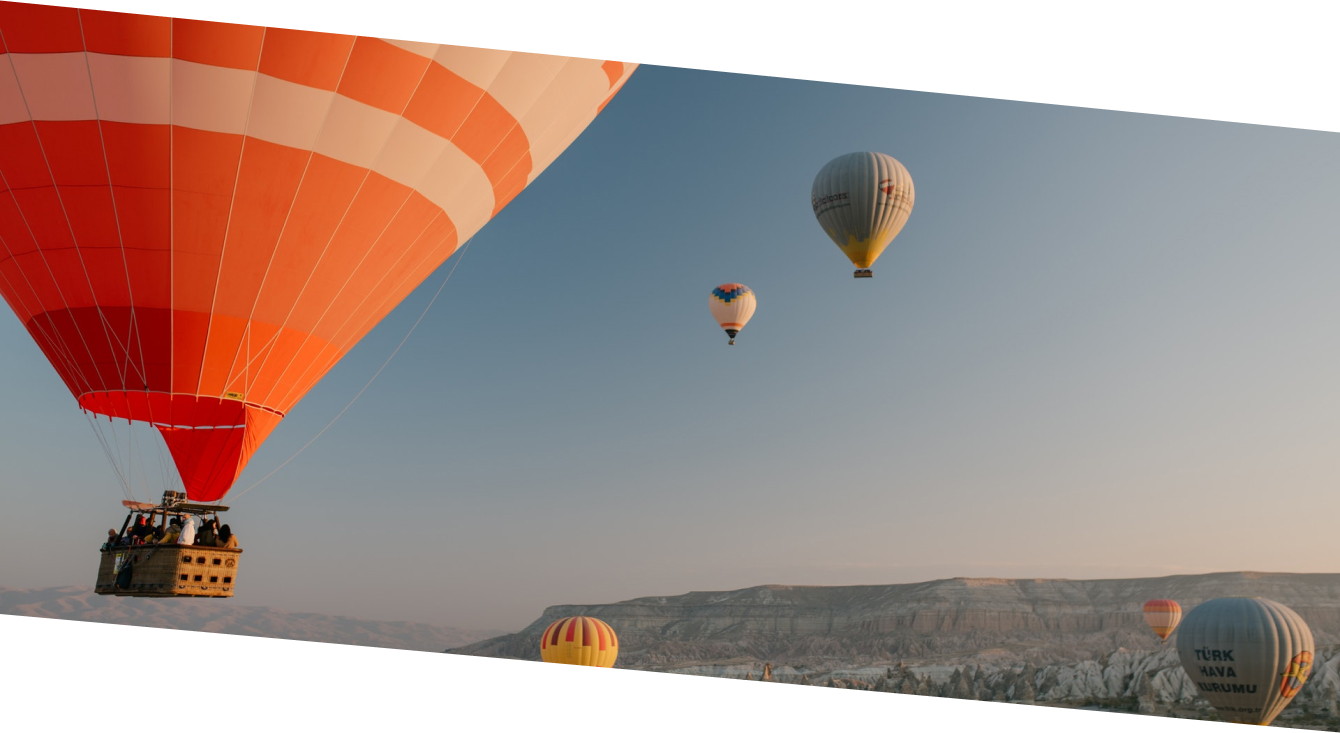
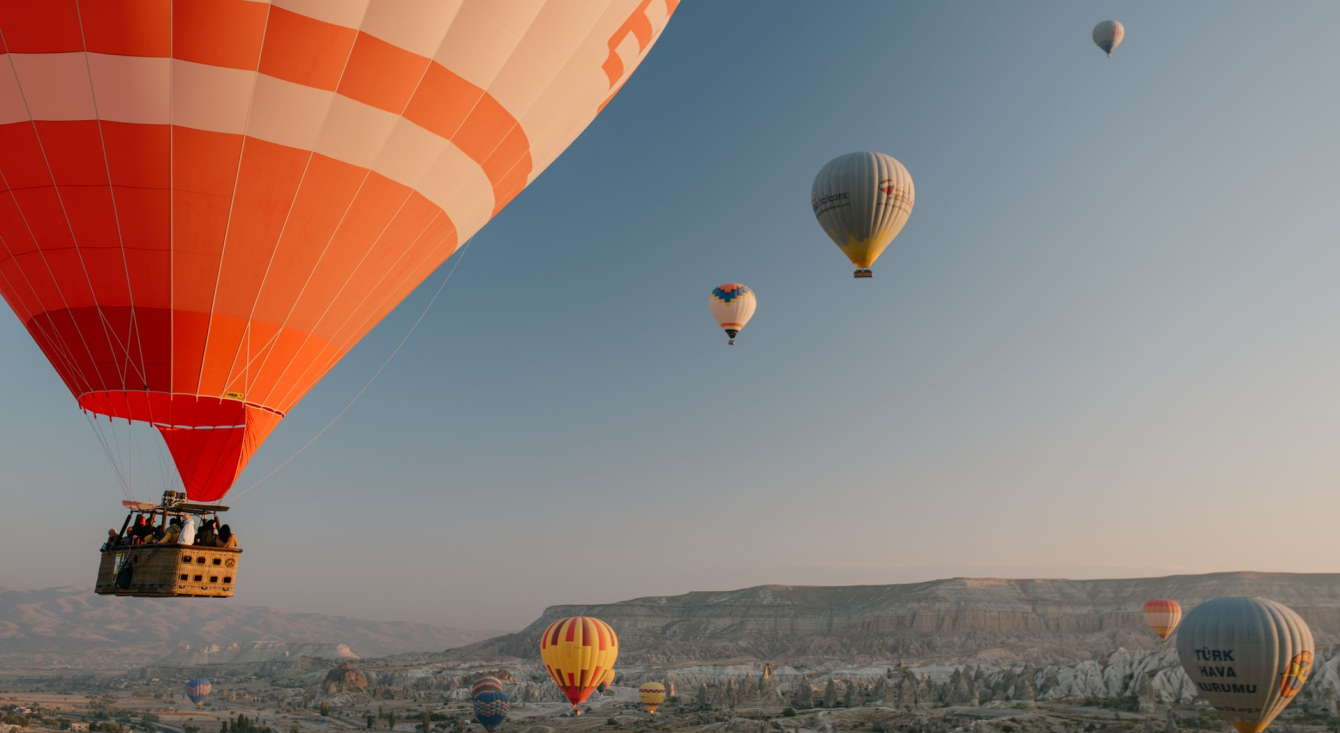
section adventure done

Changed region(s): [[0.0, 0.8404, 1.0, 1.0], [0.0, 0.0, 1.0, 0.1801]]

diff --git a/index.html b/index.html
@@ -58,7 +58,47 @@
         </div>
       </section>
 
+      <section class="section-adventure">
+        <div class="row">
+          <div class="col-1-of-4">
+            <div class="adventure-card">
+              <i class="adventure-card__icon icon-first margin-bottom-30px"></i>
+              <h3 class="title-third margin-bottom-10px">приключения</h3>
+              <p class="paragraph">
+                Задача организации, в особенности же дальнейшее развитие различных в особенности же развитие различных
+              </p>
+            </div>
+          </div>
+          <div class="col-1-of-4">
+            <div class="adventure-card">
+              <i class="adventure-card__icon icon-second margin-bottom-30px"></i>
+              <h3 class="title-third margin-bottom-10px">приключения</h3>
+              <p class="paragraph">
+                Задача организации, в особенности же дальнейшее развитие различных в особенности же развитие различных
+              </p>
+            </div>
+          </div>
+          <div class="col-1-of-4">
+            <div class="adventure-card">
+              <i class="adventure-card__icon icon-third margin-bottom-30px"></i>
+              <h3 class="title-third margin-bottom-10px">приключения</h3>
+              <p class="paragraph">
+                Задача организации, в особенности же дальнейшее развитие различных в особенности же развитие различных
+              </p>
+            </div>
+          </div>
+          <div class="col-1-of-4">
+            <div class="adventure-card">
+              <i class="adventure-card__icon icon-fourth margin-bottom-30px"></i>
+              <h3 class="title-third margin-bottom-10px">приключения</h3>
+              <p class="paragraph">
+                Задача организации, в особенности же дальнейшее развитие различных в особенности же развитие различных
+              </p>
+            </div>
+          </div>
 
+        </div>
+      </section>
     </main>
 
 

diff --git a/css/style.css b/css/style.css
@@ -154,6 +154,25 @@ html {
   margin-bottom: 1rem;
 }
 
+.adventure-card {
+  padding: 2.5rem;
+  background-color: rgba(255, 255, 255, 0.8);
+  border-radius: 0.5rem;
+  box-shadow: 0 0.5rem 0.5rem rgba(0, 0, 0, 0.3);
+  text-align: center;
+  transition: all 0.2s;
+}
+.adventure-card:hover {
+  transform: translateY(-1rem) scale(1.05);
+}
+.adventure-card__icon {
+  display: inline-block;
+  font-size: 6.3rem;
+  background: linear-gradient(90deg, rgba(186, 133, 84, 0.7), rgba(161, 79, 3, 0.7));
+  background-clip: text;
+  color: transparent;
+}
+
 .btn:link, .btn:visited {
   display: inline-block;
   text-decoration: none;
@@ -318,4 +337,12 @@ html {
 
 .section-about {
   padding-top: 8rem;
+  padding-bottom: 5.5rem;
+}
+
+.section-adventure {
+  padding-top: 22rem;
+  padding-bottom: 22rem;
+  background: linear-gradient(90deg, rgba(186, 133, 84, 0.7), rgba(161, 79, 3, 0.7)), url(../img/section-adventure.jpg) center/cover no-repeat;
+  clip-path: polygon(0 0, 100% 20%, 100% 100%, 0 80%);
 }/*# sourceMappingURL=style.css.map */

diff --git a/sass/components/_adventure-card.sass b/sass/components/_adventure-card.sass
@@ -1,0 +1,15 @@
+.adventure-card
+    padding: 2.5rem
+    background-color: rgba($color-white, 0.8)
+    border-radius: .5rem
+    box-shadow: $box-shadow
+    text-align: center
+    transition: all .2s
+    &:hover 
+        transform: translateY(-1rem) scale(1.05)
+    &__icon
+        display: inline-block
+        font-size: 6.3rem
+        background: linear-gradient(90deg, rgba($color-brown-light,0.7), rgba($color-brown-dark,0.7))
+        background-clip: text
+        color: transparent 

diff --git a/sass/pages/_home.sass b/sass/pages/_home.sass
@@ -1,2 +1,8 @@
 .section-about
     padding-top: 8rem
+    padding-bottom: 5.5rem
+.section-adventure
+    padding-top: 22rem 
+    padding-bottom: 22rem 
+    background: linear-gradient(90deg, rgba($color-brown-light,0.7), rgba($color-brown-dark,0.7)), url(../img/section-adventure.jpg) center/cover no-repeat
+    clip-path: polygon(0 0, 100% 20%, 100% 100%, 0 80%)
